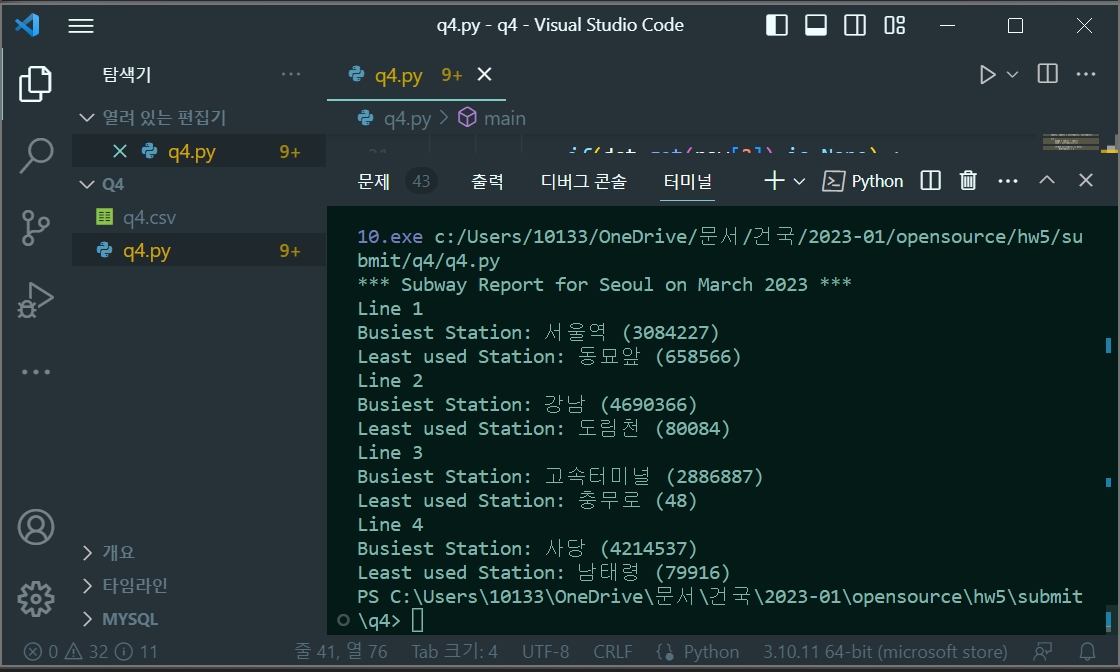
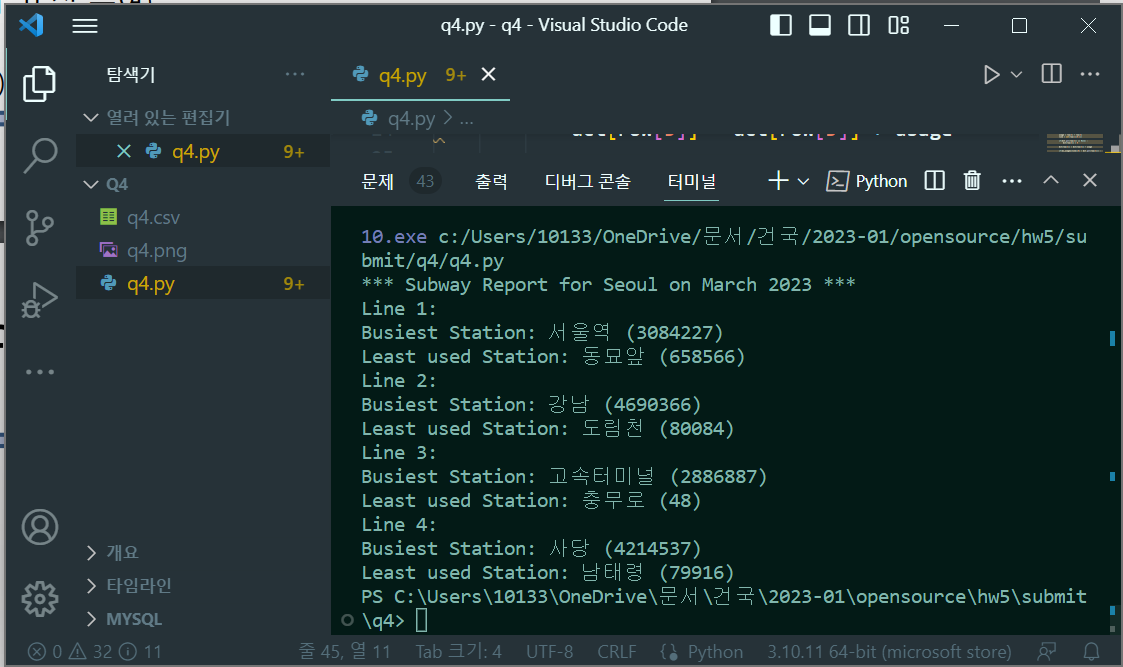
q4_edit

diff --git a/q4/q4.py b/q4/q4.py
@@ -36,7 +36,7 @@ def main() :
 
 	print("*** Subway Report for Seoul on March 2023 ***")
 	for i in range(1, 5) :
-		print("Line", i)
+		print("Line ", i, ":", sep = '')
 		print(f"Busiest Station: {mx_usages[i][1]} ({mx_usages[i][0]})")
 		print(f"Least used Station: {mn_usages[i][1]} ({mn_usages[i][0]})")
 	f.close()
